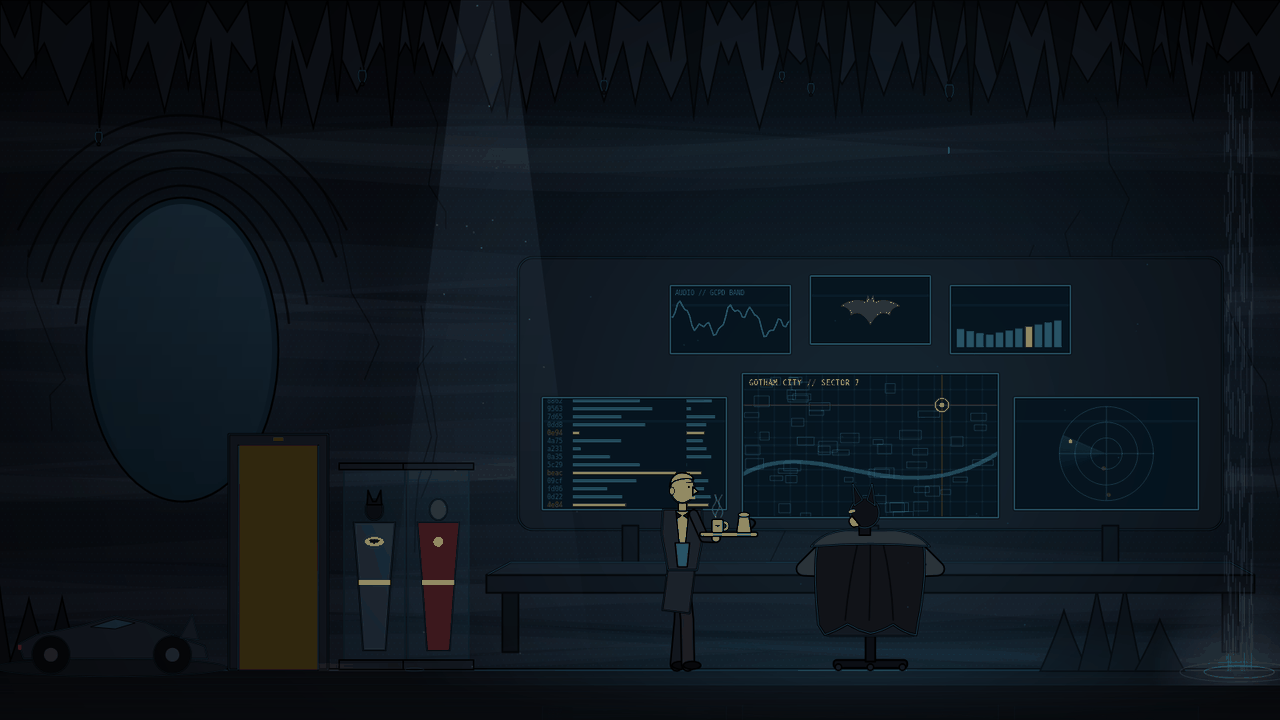
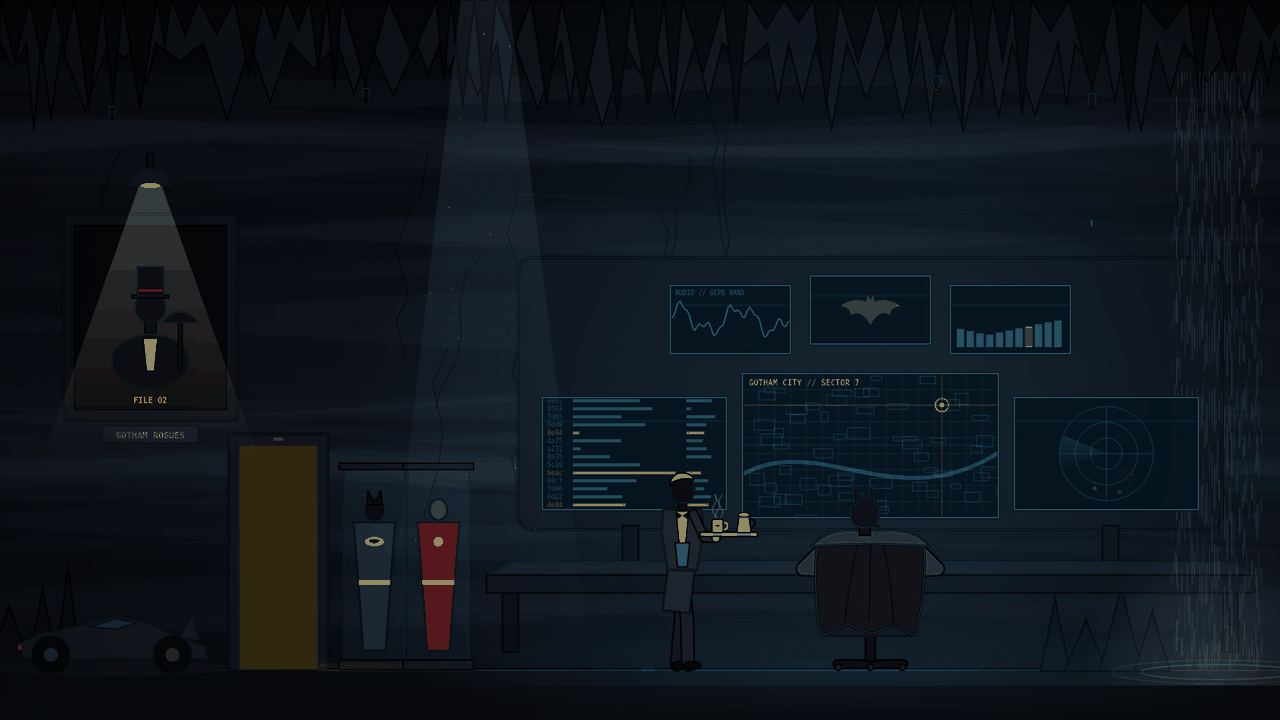
Rogues gallery with spotlight, wider waterfall, faceless silhouette heads

diff --git a/overlays/ambient.html b/overlays/ambient.html
@@ -41,6 +41,7 @@
 
   // Scene units: 1 unit = 1px at 1600x900. Origin = chair center on floor.
   const DOOR = -740, SERVE = -235, DESK = -118, CAR = -950, PENNY = -1190
+  const GAL = { x: -900, y: -440, w: 190, h: 230 } // rogues gallery frame
   const SCREENS = {
     main: [-160, -370, 320, 180], left: [-410, -340, 230, 140], right: [180, -340, 230, 140],
     t1: [-250, -480, 150, 85], t2: [-75, -492, 150, 85], t3: [100, -480, 150, 85]
@@ -104,20 +105,6 @@
     for (let y = H * 0.1; y < fy; y += sp) for (let x = (y / sp % 2) * sp / 2; x < W; x += sp) { g.moveTo(x + rr, y); g.arc(x, y, rr, 0, 7) }
     g.fill()
 
-    // Far tunnel: a cool opening deep in the back wall, with mist.
-    {
-      const tx = cx - 860 * S, ty = fy - 440 * S
-      const tg = g.createRadialGradient(tx, ty, 10 * S, tx, ty, 260 * S)
-      tg.addColorStop(0, 'rgba(120,190,230,.16)'); tg.addColorStop(0.45, 'rgba(90,150,190,.06)'); tg.addColorStop(1, 'rgba(60,110,150,0)')
-      g.fillStyle = tg; g.fillRect(tx - 300 * S, ty - 300 * S, 600 * S, 640 * S)
-      g.fillStyle = '#0b1a26'; g.beginPath(); g.ellipse(tx, ty + 40 * S, 120 * S, 190 * S, 0, 0, 7); g.fill()
-      g.strokeStyle = INK; g.lineWidth = 2.5 * S; g.stroke()
-      const ig = g.createLinearGradient(0, ty - 150 * S, 0, ty + 230 * S)
-      ig.addColorStop(0, 'rgba(140,200,235,.10)'); ig.addColorStop(1, 'rgba(140,200,235,0)')
-      g.fillStyle = ig; g.beginPath(); g.ellipse(tx, ty + 40 * S, 112 * S, 182 * S, 0, 0, 7); g.fill()
-      g.strokeStyle = 'rgba(0,0,0,.7)'; g.lineWidth = 3 * S
-      for (let k = 0; k < 5; k++) { g.beginPath(); g.ellipse(tx, ty + 40 * S, (135 + k * 26) * S, (205 + k * 22) * S, 0, Math.PI * (1.05 + k * 0.03), Math.PI * (1.95 - k * 0.03)); g.stroke() }
-    }
     tips = []
     const row = (base, maxL, col, rec) => {
       g.fillStyle = col; g.beginPath(); g.moveTo(0, 0)
@@ -193,6 +180,15 @@
       if (!robin) { g.fillStyle = '#0a0c11'; g.save(); g.translate(x - 8, -168); g.scale(0.66, 0.66); g.fill(BAT); g.restore() }
       g.fillStyle = robin ? '#e8c43a' : '#c9a227'; g.fillRect(x - 20, -112, 40, 6)
     }
+
+    // Rogues gallery: wall frame with a spotlight fixture above it.
+    gi('#0e1219', () => g.roundRect(GAL.x - GAL.w / 2 - 14, GAL.y - GAL.h / 2 - 14, GAL.w + 28, GAL.h + 28, 6), 3, 0.2)
+    gi('#05070a', () => g.rect(GAL.x - GAL.w / 2, GAL.y - GAL.h / 2, GAL.w, GAL.h), 2, 0)
+    gi('#1a1f28', () => g.roundRect(GAL.x - 60, GAL.y + GAL.h / 2 + 20, 120, 22, 3), 2, 0.2) // plaque
+    g.fillStyle = rgba(GOLD, 0.6); g.font = 'bold 11px monospace'; g.textAlign = 'center'
+    g.fillText('GOTHAM ROGUES', GAL.x, GAL.y + GAL.h / 2 + 36); g.textAlign = 'left'
+    gi('#0b0e14', () => g.rect(GAL.x - 4, GAL.y - GAL.h / 2 - 90, 8, 40), 2, 0) // lamp stem
+    gi('#141922', () => { g.moveTo(GAL.x - 26, GAL.y - GAL.h / 2 - 50); g.lineTo(GAL.x + 26, GAL.y - GAL.h / 2 - 50); g.lineTo(GAL.x + 14, GAL.y - GAL.h / 2 - 70); g.lineTo(GAL.x - 14, GAL.y - GAL.h / 2 - 70) }, 2.4, 0.3) // lamp shade
 
     // Elevator frame.
     gi('#12161e', () => g.rect(DOOR - 62, -294, 124, 294), 3, 0.2)
@@ -347,7 +343,7 @@
     const walking = A.st === 'in' || A.st === 'out'
     const ph = A.ph
     const bob = walking ? Math.abs(Math.sin(ph)) * 3 : Math.sin(t * 1.6) * 0.8
-    const coat = '#1e2229', trouser = '#1a1d24', skin = '#e9cdb4', glove = '#eef1f4'
+    const coat = '#1e2229', trouser = '#1a1d24', head = '#0a0c11', glove = '#eef1f4'
     ctx.save(); ctx.translate(A.x, -bob); ctx.scale(sx, 1)
     // Legs: hip (0,-120), knee, foot. Planted foot stays still while body moves.
     const leg = (phase, far) => {
@@ -372,15 +368,10 @@
     ink('#f1f3f5', () => { ctx.moveTo(-8, -198); ctx.lineTo(8, -198); ctx.lineTo(3, -150); ctx.lineTo(-3, -150) }, 1.8, 0)
     ink('#4b5361', () => { ctx.moveTo(-9, -158); ctx.lineTo(9, -158); ctx.lineTo(6, -128); ctx.lineTo(-6, -128) }, 1.8, 0)
     ink('#0b0c10', () => { ctx.moveTo(-7, -196); ctx.lineTo(-1, -192); ctx.lineTo(-7, -188); ctx.moveTo(7, -196); ctx.lineTo(1, -192); ctx.lineTo(7, -188) }, 1.6, 0)
-    // Neck and head (profile facing travel direction).
-    ink(skin, () => ctx.rect(-5, -210, 10, 12), 2, 0)
-    ink(skin, () => ctx.ellipse(0, -226, 15, 18, 0, 0, 7), 2.6, 0.2)
-    ink(skin, () => { ctx.moveTo(13, -228); ctx.lineTo(20, -222); ctx.lineTo(13, -218) }, 2, 0) // nose
-    ink('#b9bfc7', () => { ctx.moveTo(-16, -228); ctx.quadraticCurveTo(-14, -248, 4, -245); ctx.quadraticCurveTo(13, -243, 14, -237); ctx.quadraticCurveTo(4, -240, -8, -236); ctx.quadraticCurveTo(-14, -234, -16, -228) }, 2, 0) // grey hair, swept back
-    ink(skin, () => ctx.ellipse(-13, -223, 3, 5, 0, 0, 7), 1.5, 0) // ear
-    ctx.fillStyle = '#aeb4bc'; ctx.fillRect(6, -216, 10, 3) // mustache
-    ctx.fillStyle = INK; ctx.beginPath(); ctx.arc(8, -228, 1.6, 0, 7); ctx.fill() // eye
-    ctx.strokeStyle = INK; ctx.lineWidth = 1.5; ctx.beginPath(); ctx.moveTo(5, -233); ctx.lineTo(12, -234); ctx.stroke() // brow
+    // Neck and head: plain silhouette, no face, grey hair swept back.
+    ink(head, () => ctx.rect(-5, -210, 10, 12), 2, 0)
+    ink(head, () => ctx.ellipse(0, -226, 15, 18, 0, 0, 7), 2.6, 0.3)
+    ink('#b9bfc7', () => { ctx.moveTo(-16, -228); ctx.quadraticCurveTo(-14, -248, 4, -245); ctx.quadraticCurveTo(13, -243, 14, -237); ctx.quadraticCurveTo(4, -240, -8, -236); ctx.quadraticCurveTo(-14, -234, -16, -228) }, 2, 0)
     // Near arm: carries the tray, then sets it on the desk.
     let hx, hy
     if (A.tray) {
@@ -469,13 +460,96 @@
     }, 2.6, 0.35)
     ink(cowl, () => { ctx.moveTo(hx - 13, -205); ctx.lineTo(hx - 12 - L * 3, -232); ctx.lineTo(hx - 3, -212) }, 2.4, 0.3)
     ink(cowl, () => { ctx.moveTo(hx + 13, -205); ctx.lineTo(hx + 12 - L * 3, -232); ctx.lineTo(hx + 3, -212) }, 2.4, 0.3)
-    if (L > 0.05) {
-      // Jaw and a white eye slit show as he turns.
-      ctx.globalAlpha = L
-      ink('#e2c3a6', () => { ctx.moveTo(hx - 16, -192); ctx.quadraticCurveTo(hx - 24, -184, hx - 14, -178); ctx.lineTo(hx - 6, -180) }, 2, 0)
-      ctx.fillStyle = '#ffffff'; ctx.beginPath(); ctx.ellipse(hx - 16, -198, 4, 1.6, -0.25, 0, 7); ctx.fill()
-      ctx.globalAlpha = 1
+  }
+
+  // ---------- rogues gallery: villain silhouettes under a spotlight ----------
+  // Original silhouette busts: no faces, identity carried by hair, hats, gear.
+  const base = '#0b0d12'
+  const bust = (fill = base) => ink(fill, () => { ctx.moveTo(-62, 95); ctx.quadraticCurveTo(-60, 40, -30, 28); ctx.lineTo(-14, 18); ctx.lineTo(14, 18); ctx.lineTo(30, 28); ctx.quadraticCurveTo(60, 40, 62, 95) }, 2.4, 0.3)
+  const neck = () => ink(base, () => ctx.rect(-10, -4, 20, 24), 2, 0)
+  const headOval = (rx = 24, ry = 29, y = -28) => ink(base, () => ctx.ellipse(0, y, rx, ry, 0, 0, 7), 2.4, 0.3)
+  const ROGUES = [
+    { tag: 'FILE 01', draw() { // green slicked hair, purple suit, flower
+      bust('#4a2470'); ink('#e9e7ee', () => { ctx.moveTo(-10, 18); ctx.lineTo(10, 18); ctx.lineTo(4, 70); ctx.lineTo(-4, 70) }, 1.6, 0)
+      ink('#2f9e44', () => ctx.arc(-38, 52, 7, 0, 7), 1.6, 0); ink('#f2a93b', () => ctx.arc(-38, 52, 3, 0, 7), 1.2, 0)
+      neck(); headOval(22, 30)
+      ink('#2f9e44', () => { ctx.moveTo(-26, -40); ctx.quadraticCurveTo(-30, -74, 0, -70); ctx.quadraticCurveTo(28, -74, 30, -44); ctx.quadraticCurveTo(14, -58, 0, -50); ctx.quadraticCurveTo(-14, -58, -26, -40) }, 2, 0)
+    } },
+    { tag: 'FILE 02', draw() { // short round figure, top hat, umbrella
+      ink(base, () => ctx.ellipse(0, 70, 66, 46, 0, 0, 7), 2.4, 0.3)
+      ink('#e9e7ee', () => { ctx.moveTo(-12, 30); ctx.lineTo(12, 30); ctx.lineTo(6, 86); ctx.lineTo(-6, 86) }, 1.6, 0)
+      neck(); headOval(26, 26, -24)
+      ink(base, () => ctx.rect(-32, -46, 64, 6), 2, 0); ink(base, () => ctx.rect(-22, -94, 44, 50), 2.4, 0.3)
+      ink('#7c1d2a', () => ctx.rect(-22, -56, 44, 6), 1.4, 0)
+      limb(base, 5, [[52, 0], [52, 80]]); ink(base, () => { ctx.moveTo(22, 2); ctx.quadraticCurveTo(52, -34, 82, 2) }, 2.2, 0.3)
+    } },
+    { tag: 'FILE 03', draw() { // green bowler with a gold mark, cane
+      bust('#1f6f3a'); ink('#e9e7ee', () => { ctx.moveTo(-8, 18); ctx.lineTo(8, 18); ctx.lineTo(3, 60); ctx.lineTo(-3, 60) }, 1.6, 0)
+      neck(); headOval(22, 28)
+      ink('#1f6f3a', () => ctx.rect(-32, -50, 64, 6), 2, 0); ink('#1f6f3a', () => { ctx.moveTo(-24, -50); ctx.quadraticCurveTo(-24, -84, 0, -84); ctx.quadraticCurveTo(24, -84, 24, -50) }, 2.4, 0.3)
+      ctx.fillStyle = rgba(GOLD, 0.95); ctx.font = 'bold 18px monospace'; ctx.textAlign = 'center'; ctx.fillText('?', 0, -58); ctx.textAlign = 'left'
+      limb('#1f6f3a', 5, [[56, 30], [56, 95]]); ink(rgba(GOLD, 0.95), () => { ctx.moveTo(50, 32); ctx.quadraticCurveTo(44, 10, 60, 10); ctx.quadraticCurveTo(74, 10, 62, 28) }, 2, 0)
+    } },
+    { tag: 'FILE 04', draw() { // cat-eared cowl, goggles up, coiled whip
+      bust(); neck(); headOval(23, 28)
+      ink(base, () => { ctx.moveTo(-20, -48); ctx.lineTo(-22, -74); ctx.lineTo(-6, -54) }, 2.2, 0.3); ink(base, () => { ctx.moveTo(20, -48); ctx.lineTo(22, -74); ctx.lineTo(6, -54) }, 2.2, 0.3)
+      ink('#1c2430', () => ctx.rect(-22, -50, 44, 9), 1.8, 0); for (const gx of [-9, 9]) ink('#f2a93b', () => ctx.arc(gx, -45, 5, 0, 7), 1.4, 0)
+      for (let k = 0; k < 4; k++) { ctx.lineWidth = 3; ctx.strokeStyle = INK; ctx.beginPath(); ctx.ellipse(50, 70, 14 + k * 3, 9 + k * 2, 0, 0, 7); ctx.stroke(); ctx.lineWidth = 1.2; ctx.strokeStyle = '#6b4a2b'; ctx.stroke() }
+    } },
+    { tag: 'FILE 05', draw() { // ragged hood and wide hat, straw
+      bust('#3a2a18'); neck()
+      ink('#6b4a2b', () => { ctx.moveTo(-26, -6); ctx.lineTo(-24, -56); ctx.quadraticCurveTo(0, -70, 24, -56); ctx.lineTo(26, -6); ctx.lineTo(16, 2); ctx.lineTo(8, -8); ctx.lineTo(0, 4); ctx.lineTo(-8, -8); ctx.lineTo(-16, 2) }, 2.4, 0.25)
+      ctx.strokeStyle = INK; ctx.lineWidth = 1.6; for (const [a, b] of [[-14, -30], [6, -40], [-4, -18]]) { ctx.beginPath(); ctx.moveTo(a, b); ctx.lineTo(a + 10, b + 4); ctx.moveTo(a + 3, b - 3); ctx.lineTo(a + 3, b + 5); ctx.stroke() }
+      ink('#2a1d10', () => ctx.rect(-46, -60, 92, 7), 2, 0); ink('#2a1d10', () => { ctx.moveTo(-26, -60); ctx.lineTo(-20, -96); ctx.lineTo(22, -96); ctx.lineTo(28, -60) }, 2.4, 0.3)
+      ctx.strokeStyle = '#c9a227'; ctx.lineWidth = 1.5; for (const [a, b, c] of [[-30, -4, -12], [30, -2, 10], [-28, 20, -10]]) { ctx.beginPath(); ctx.moveTo(a, b); ctx.lineTo(a + c, b + 12); ctx.stroke() }
+    } },
+    { tag: 'FILE 06', draw() { // glass dome helmet, cold suit, tubes
+      bust('#1b3550'); ink('#2b4d70', () => ctx.rect(-40, 40, 80, 8), 1.6, 0)
+      limb('#5ad1ff', 3, [[-40, 60], [-52, 40], [-40, 24]]); limb('#5ad1ff', 3, [[40, 60], [52, 40], [40, 24]])
+      ink('#2b4d70', () => ctx.rect(-34, -4, 68, 22), 2, 0); headOval(20, 24, -34)
+      ink('rgba(120,200,240,.22)', () => ctx.arc(0, -36, 40, 0, 7), 2.4, 0.5)
+      ctx.strokeStyle = 'rgba(220,245,255,.5)'; ctx.lineWidth = 2; ctx.beginPath(); ctx.arc(0, -36, 32, Math.PI * 1.15, Math.PI * 1.55); ctx.stroke()
+    } },
+    { tag: 'FILE 07', draw() { // two-tone pigtails, diamond collar
+      bust('#111319'); for (const [x, c] of [[-28, '#b3202c'], [-14, '#111319'], [0, '#b3202c'], [14, '#111319'], [28, '#b3202c']]) ink(c, () => { ctx.moveTo(x - 7, 18); ctx.lineTo(x, 32); ctx.lineTo(x + 7, 18) }, 1.4, 0)
+      neck(); headOval(22, 27)
+      ink('#b3202c', () => { ctx.moveTo(-18, -44); ctx.quadraticCurveTo(-56, -40, -58, 10); ctx.quadraticCurveTo(-50, -10, -40, -12); ctx.quadraticCurveTo(-30, -24, -14, -30) }, 2.2, 0.3)
+      ink('#1c2a6b', () => { ctx.moveTo(18, -44); ctx.quadraticCurveTo(56, -40, 58, 10); ctx.quadraticCurveTo(50, -10, 40, -12); ctx.quadraticCurveTo(30, -24, 14, -30) }, 2.2, 0.3)
+      ink('#b3202c', () => { ctx.moveTo(-22, -40); ctx.quadraticCurveTo(-12, -60, 0, -52); ctx.lineTo(0, -40) }, 1.8, 0); ink('#1c2a6b', () => { ctx.moveTo(22, -40); ctx.quadraticCurveTo(12, -60, 0, -52); ctx.lineTo(0, -40) }, 1.8, 0)
+    } },
+    { tag: 'FILE 08', draw() { // red hair, leaves
+      bust('#1f4d2b'); neck(); headOval(22, 28)
+      ink('#b23a1e', () => { ctx.moveTo(-20, -50); ctx.quadraticCurveTo(-54, -30, -50, 40); ctx.quadraticCurveTo(-40, 20, -30, 30); ctx.quadraticCurveTo(-28, -10, -14, -34); ctx.lineTo(14, -34); ctx.quadraticCurveTo(28, -10, 30, 30); ctx.quadraticCurveTo(40, 20, 50, 40); ctx.quadraticCurveTo(54, -30, 20, -50); ctx.quadraticCurveTo(0, -62, -20, -50) }, 2.2, 0.3)
+      for (const [x, y, r] of [[-44, 10, 0.6], [46, 20, -0.6], [-10, -58, 0.2], [30, -46, -0.9]]) { ctx.save(); ctx.translate(x, y); ctx.rotate(r); ink('#3fae6a', () => { ctx.moveTo(0, -12); ctx.quadraticCurveTo(10, -4, 0, 10); ctx.quadraticCurveTo(-10, -4, 0, -12) }, 1.6, 0); ctx.restore() }
+    } }
+  ]
+  const G = { i: 0, st: 'on', t0: 0 }
+  function gallery(dt) {
+    const el = t - G.t0
+    let spot = 0
+    if (G.st === 'on') { spot = smooth(el / 1.2); if (el > 1.2) { G.st = 'hold'; G.t0 = t } }
+    else if (G.st === 'hold') { spot = 1; if (el > 7) { G.st = 'off'; G.t0 = t } }
+    else if (G.st === 'off') { spot = 1 - smooth(el / 1.2); if (el > 1.2) { G.st = 'dark'; G.t0 = t } }
+    else { spot = 0; if (el > 1.6) { G.i = (G.i + 1) % ROGUES.length; G.st = 'on'; G.t0 = t } }
+    const x = GAL.x, top = GAL.y - GAL.h / 2
+    // Spotlight cone from the lamp.
+    if (spot > 0) {
+      ctx.save(); ctx.globalCompositeOperation = 'lighter'
+      const g = ctx.createLinearGradient(0, top - 50, 0, top + GAL.h + 60)
+      g.addColorStop(0, `rgba(255,235,190,${0.22 * spot})`); g.addColorStop(1, 'rgba(255,235,190,0)')
+      ctx.fillStyle = g
+      ctx.beginPath(); ctx.moveTo(x - 14, top - 50); ctx.lineTo(x + 14, top - 50); ctx.lineTo(x + GAL.w / 2 + 40, top + GAL.h + 60); ctx.lineTo(x - GAL.w / 2 - 40, top + GAL.h + 60); ctx.closePath(); ctx.fill()
+      ctx.restore()
+      ctx.fillStyle = `rgba(255,235,190,${0.9 * spot})`; ctx.beginPath(); ctx.ellipse(x, top - 50, 12, 3, 0, 0, 7); ctx.fill()
     }
+    // Villain inside the frame, lit by the spot.
+    ctx.save()
+    ctx.beginPath(); ctx.rect(x - GAL.w / 2, top, GAL.w, GAL.h); ctx.clip()
+    ctx.globalAlpha = spot
+    ctx.translate(x, top + GAL.h * 0.52); ctx.scale(0.72, 0.72)
+    ROGUES[G.i].draw()
+    ctx.restore()
+    if (spot > 0.2) { ctx.fillStyle = rgba(GOLD, 0.7 * spot); ctx.font = 'bold 10px monospace'; ctx.textAlign = 'center'; ctx.fillText(ROGUES[G.i].tag, x, top + GAL.h - 8); ctx.textAlign = 'left' }
   }
 
   // ---------- particles, drips, waterfall ----------
@@ -505,9 +579,9 @@
       }
     }
   }
-  const FALL = Array.from({ length: 16 }, () => [R(10, 60), R(20, 90), R(60, 140)])
+  const FALL = Array.from({ length: 44 }, () => [R(10, 60), R(20, 90), R(60, 140)])
   function waterfall() {
-    const wx = W - 70 * S, top = H * 0.1, w = 38 * S
+    const wx = W - 135 * S, top = H * 0.1, w = 115 * S
     ctx.save(); ctx.lineWidth = Math.max(1, 1.5 * S)
     FALL.forEach(([a, b, sp], i) => {
       ctx.strokeStyle = `rgba(170,215,240,${0.07 + (i % 3) * 0.03})`
@@ -608,16 +682,16 @@
     }
   }
   function pool() {
-    const wx = W - 51 * S
+    const wx = W - 77 * S
     ctx.save()
     for (let k = 0; k < 3; k++) {
       const u = ((t * 0.5) + k / 3) % 1
       ctx.strokeStyle = `rgba(170,215,240,${0.35 * (1 - u)})`; ctx.lineWidth = 1.2
-      ctx.beginPath(); ctx.ellipse(wx, fy + 3 * S, (14 + u * 90) * S, (3 + u * 14) * S, 0, 0, 7); ctx.stroke()
+      ctx.beginPath(); ctx.ellipse(wx, fy + 3 * S, (60 + u * 110) * S, (4 + u * 16) * S, 0, 0, 7); ctx.stroke()
     }
-    const mg = ctx.createRadialGradient(wx, fy, 5 * S, wx, fy, 110 * S)
-    mg.addColorStop(0, `rgba(190,225,245,${0.12 + 0.03 * Math.sin(t * 2)})`); mg.addColorStop(1, 'rgba(190,225,245,0)')
-    ctx.fillStyle = mg; ctx.fillRect(wx - 120 * S, fy - 110 * S, 240 * S, 130 * S)
+    const mg = ctx.createRadialGradient(wx, fy, 10 * S, wx, fy, 170 * S)
+    mg.addColorStop(0, `rgba(190,225,245,${0.13 + 0.03 * Math.sin(t * 2)})`); mg.addColorStop(1, 'rgba(190,225,245,0)')
+    ctx.fillStyle = mg; ctx.fillRect(wx - 180 * S, fy - 170 * S, 360 * S, 190 * S)
     ctx.restore()
   }
 
@@ -629,7 +703,7 @@
     shaft(dt); waterfall(); pool(); hangingBats()
     reflection()
     ctx.setTransform(S, 0, 0, S, cx, fy)
-    glow(); screens(); alfred(dt)
+    glow(); screens(); gallery(dt); alfred(dt)
     if (mug) drawMug(mug.x, DESK - 16, clamp(1 - (t - mug.born) / 90, 0, 1))
     batman(dt); dustDraw(dt)
     ctx.setTransform(1, 0, 0, 1, 0, 0)

diff --git a/readme.md b/readme.md
@@ -9,7 +9,8 @@ A fan-made Batman theme pack for Kiro Crew, drawn in a comic-ink style.
 - Batcomputer with six working screens (Gotham map, data feed, radar, waveform, bars, bat logo)
 - Batman in the chair, typing
 - Alfred stepping out of the elevator with coffee every minute or so
-- Bat swarms crossing the cave
+- A rogues gallery on the wall: a spotlight switches on, shows one of eight villain silhouettes, switches off, and the next one appears
+- Bat swarms crossing the cave, and bats roosting on the stalactites
 - Dripping stalactites and a waterfall
 - Batmobile, suit cases, and the giant penny
 
